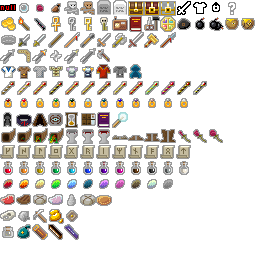
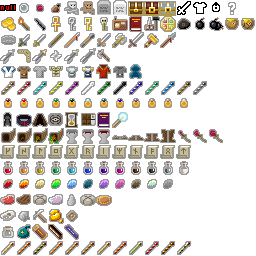
v0.3.0: added placeholder sprites for new & reworked wands. All names are WIP.

diff --git a/src/com/shatteredpixel/shatteredpixeldungeon/sprites/ItemSpriteSheet.java b/src/com/shatteredpixel/shatteredpixeldungeon/sprites/ItemSpriteSheet.java
@@ -112,18 +112,18 @@ public class ItemSpriteSheet {
 
     //Row Six: Wands
     public static final int WAND_MAGIC_MISSILE	= ROW6+0;
-    public static final int WAND_HOLLY			= ROW6+1;
-    public static final int WAND_YEW			= ROW6+2;
-    public static final int WAND_EBONY			= ROW6+3;
-    public static final int WAND_CHERRY			= ROW6+4;
-    public static final int WAND_TEAK			= ROW6+5;
-    public static final int WAND_ROWAN			= ROW6+6;
-    public static final int WAND_WILLOW			= ROW6+7;
-    public static final int WAND_MAHOGANY		= ROW6+8;
-    public static final int WAND_BAMBOO			= ROW6+9;
-    public static final int WAND_PURPLEHEART	= ROW6+10;
-    public static final int WAND_OAK			= ROW6+11;
-    public static final int WAND_BIRCH			= ROW6+12;
+    public static final int WAND_FIREBOLT		= ROW6+1;
+    public static final int WAND_FROST			= ROW6+2;
+    public static final int WAND_LIGHTNING		= ROW6+3;
+    public static final int WAND_DISINTEGRATION	= ROW6+4;
+    public static final int WAND_PRISMATIC_LIGHT= ROW6+5;
+    public static final int WAND_ACID			= ROW6+6;
+    public static final int WAND_CORRUPTION		= ROW6+7;
+    public static final int WAND_WARDING		= ROW6+8;
+    public static final int WAND_REGROWTH		= ROW6+9;
+    public static final int WAND_SUMMONING  	= ROW6+10;
+    public static final int WAND_AVALANCHE		= ROW6+11;
+    public static final int WAND_FORCE			= ROW6+12;
 
     //Row Seven: Rings
     public static final int RING_GARNET		= ROW7+0;

diff --git a/src/com/shatteredpixel/shatteredpixeldungeon/items/wands/Wand.java b/src/com/shatteredpixel/shatteredpixeldungeon/items/wands/Wand.java
@@ -36,7 +36,6 @@ import com.shatteredpixel.shatteredpixeldungeon.items.rings.RingOfMagic.Magic;
 import com.shatteredpixel.shatteredpixeldungeon.mechanics.Ballistica;
 import com.shatteredpixel.shatteredpixeldungeon.scenes.CellSelector;
 import com.shatteredpixel.shatteredpixeldungeon.scenes.GameScene;
-import com.shatteredpixel.shatteredpixeldungeon.sprites.ItemSpriteSheet;
 import com.shatteredpixel.shatteredpixeldungeon.ui.QuickSlotButton;
 import com.shatteredpixel.shatteredpixeldungeon.utils.GLog;
 import com.watabou.utils.Bundle;
@@ -75,8 +74,6 @@ public abstract class Wand extends KindOfWeapon {
 	
 	{
 		defaultAction = AC_ZAP;
-
-		image = ItemSpriteSheet.WAND_MAGIC_MISSILE;
 	}
 	
 	public Wand() {

diff --git a/src/com/shatteredpixel/shatteredpixeldungeon/items/wands/WandOfDisintegration.java b/src/com/shatteredpixel/shatteredpixeldungeon/items/wands/WandOfDisintegration.java
@@ -30,6 +30,7 @@ import com.shatteredpixel.shatteredpixeldungeon.levels.Level;
 import com.shatteredpixel.shatteredpixeldungeon.levels.Terrain;
 import com.shatteredpixel.shatteredpixeldungeon.mechanics.Ballistica;
 import com.shatteredpixel.shatteredpixeldungeon.scenes.GameScene;
+import com.shatteredpixel.shatteredpixeldungeon.sprites.ItemSpriteSheet;
 import com.watabou.utils.Callback;
 import com.watabou.utils.Random;
 
@@ -37,6 +38,8 @@ public class WandOfDisintegration extends Wand {
 
 	{
 		name = "Wand of Disintegration";
+		image = ItemSpriteSheet.WAND_DISINTEGRATION;
+
 		collisionProperties = Ballistica.STOP_TERRAIN;
 	}
 	

diff --git a/src/com/shatteredpixel/shatteredpixeldungeon/items/wands/WandOfLightning.java b/src/com/shatteredpixel/shatteredpixeldungeon/items/wands/WandOfLightning.java
@@ -21,6 +21,7 @@ import java.util.ArrayList;
 import java.util.HashSet;
 
 import com.shatteredpixel.shatteredpixeldungeon.mechanics.Ballistica;
+import com.shatteredpixel.shatteredpixeldungeon.sprites.ItemSpriteSheet;
 import com.watabou.noosa.Camera;
 import com.shatteredpixel.shatteredpixeldungeon.Dungeon;
 import com.shatteredpixel.shatteredpixeldungeon.ResultDescriptions;
@@ -40,6 +41,7 @@ public class WandOfLightning extends Wand {
 
 	{
 		name = "Wand of Lightning";
+		image = ItemSpriteSheet.WAND_LIGHTNING;
 	}
 	
 	private ArrayList<Char> affected = new ArrayList<Char>();

diff --git a/src/com/shatteredpixel/shatteredpixeldungeon/items/wands/WandOfSlowness.java b/src/com/shatteredpixel/shatteredpixeldungeon/items/wands/WandOfSlowness.java
@@ -18,6 +18,7 @@
 package com.shatteredpixel.shatteredpixeldungeon.items.wands;
 
 import com.shatteredpixel.shatteredpixeldungeon.mechanics.Ballistica;
+import com.shatteredpixel.shatteredpixeldungeon.sprites.ItemSpriteSheet;
 import com.watabou.noosa.audio.Sample;
 import com.shatteredpixel.shatteredpixeldungeon.Assets;
 import com.shatteredpixel.shatteredpixeldungeon.actors.Actor;
@@ -32,6 +33,7 @@ public class WandOfSlowness extends Wand {
 
 	{
 		name = "Wand of Slowness";
+		image = ItemSpriteSheet.WAND_FROST;
 	}
 
 	@Override

diff --git a/src/com/shatteredpixel/shatteredpixeldungeon/items/wands/WandOfPoison.java b/src/com/shatteredpixel/shatteredpixeldungeon/items/wands/WandOfPoison.java
@@ -18,6 +18,7 @@
 package com.shatteredpixel.shatteredpixeldungeon.items.wands;
 
 import com.shatteredpixel.shatteredpixeldungeon.mechanics.Ballistica;
+import com.shatteredpixel.shatteredpixeldungeon.sprites.ItemSpriteSheet;
 import com.watabou.noosa.audio.Sample;
 import com.shatteredpixel.shatteredpixeldungeon.Assets;
 import com.shatteredpixel.shatteredpixeldungeon.actors.Actor;
@@ -32,6 +33,7 @@ public class WandOfPoison extends Wand {
 
 	{
 		name = "Wand of Poison";
+		image = ItemSpriteSheet.WAND_ACID;
 	}
 	
 	@Override

diff --git a/src/com/shatteredpixel/shatteredpixeldungeon/items/wands/WandOfTelekinesis.java b/src/com/shatteredpixel/shatteredpixeldungeon/items/wands/WandOfTelekinesis.java
@@ -17,6 +17,7 @@
  */
 package com.shatteredpixel.shatteredpixeldungeon.items.wands;
 
+import com.shatteredpixel.shatteredpixeldungeon.sprites.ItemSpriteSheet;
 import com.watabou.noosa.audio.Sample;
 import com.shatteredpixel.shatteredpixeldungeon.Assets;
 import com.shatteredpixel.shatteredpixeldungeon.Dungeon;
@@ -37,6 +38,8 @@ public class WandOfTelekinesis extends Wand {
 	
 	{
 		name = "Wand of Telekinesis";
+		image = ItemSpriteSheet.WAND_FORCE;
+
 		collisionProperties = Ballistica.STOP_TERRAIN;
 	}
 	

diff --git a/src/com/shatteredpixel/shatteredpixeldungeon/items/wands/WandOfAvalanche.java b/src/com/shatteredpixel/shatteredpixeldungeon/items/wands/WandOfAvalanche.java
@@ -17,6 +17,7 @@
  */
 package com.shatteredpixel.shatteredpixeldungeon.items.wands;
 
+import com.shatteredpixel.shatteredpixeldungeon.sprites.ItemSpriteSheet;
 import com.watabou.noosa.Camera;
 import com.watabou.noosa.audio.Sample;
 import com.shatteredpixel.shatteredpixeldungeon.Assets;
@@ -42,6 +43,8 @@ public class WandOfAvalanche extends Wand {
 
 	{
 		name = "Wand of Avalanche";
+		image = ItemSpriteSheet.WAND_AVALANCHE;
+
 		collisionProperties = Ballistica.STOP_TERRAIN;
 	}
 	

diff --git a/src/com/shatteredpixel/shatteredpixeldungeon/items/wands/WandOfFirebolt.java b/src/com/shatteredpixel/shatteredpixeldungeon/items/wands/WandOfFirebolt.java
@@ -17,6 +17,7 @@
  */
 package com.shatteredpixel.shatteredpixeldungeon.items.wands;
 
+import com.shatteredpixel.shatteredpixeldungeon.sprites.ItemSpriteSheet;
 import com.watabou.noosa.audio.Sample;
 import com.shatteredpixel.shatteredpixeldungeon.Assets;
 import com.shatteredpixel.shatteredpixeldungeon.Dungeon;
@@ -41,6 +42,7 @@ public class WandOfFirebolt extends Wand {
 
 	{
 		name = "Wand of Firebolt";
+		image = ItemSpriteSheet.WAND_FIREBOLT;
 	}
 	
 	@Override

diff --git a/src/com/shatteredpixel/shatteredpixeldungeon/items/wands/WandOfRegrowth.java b/src/com/shatteredpixel/shatteredpixeldungeon/items/wands/WandOfRegrowth.java
@@ -17,6 +17,7 @@
  */
 package com.shatteredpixel.shatteredpixeldungeon.items.wands;
 
+import com.shatteredpixel.shatteredpixeldungeon.sprites.ItemSpriteSheet;
 import com.watabou.noosa.audio.Sample;
 import com.shatteredpixel.shatteredpixeldungeon.Assets;
 import com.shatteredpixel.shatteredpixeldungeon.Dungeon;
@@ -34,6 +35,7 @@ public class WandOfRegrowth extends Wand {
 
 	{
 		name = "Wand of Regrowth";
+		image = ItemSpriteSheet.WAND_REGROWTH;
 	}
 	
 	@Override
